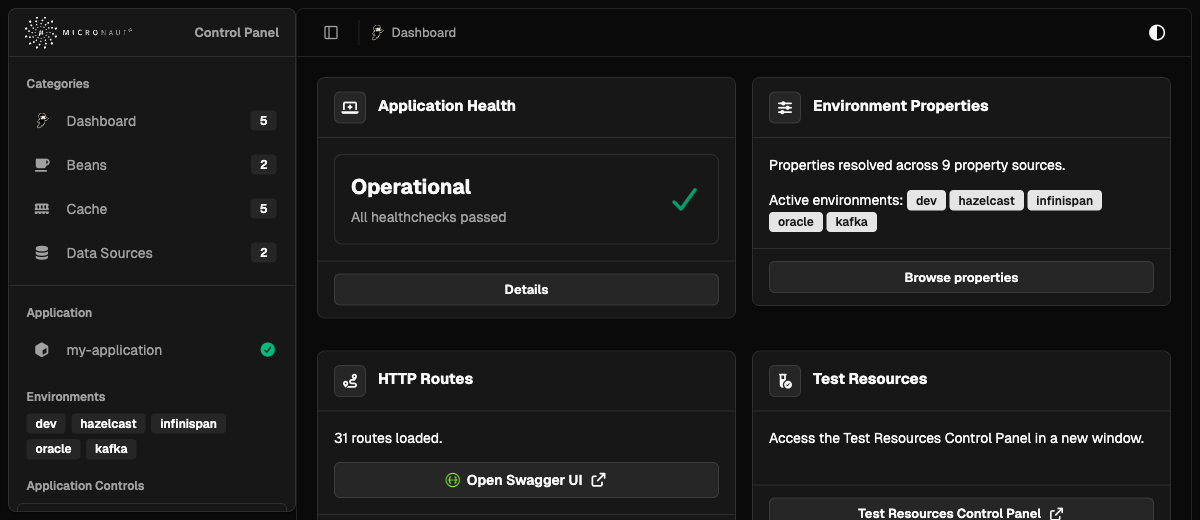
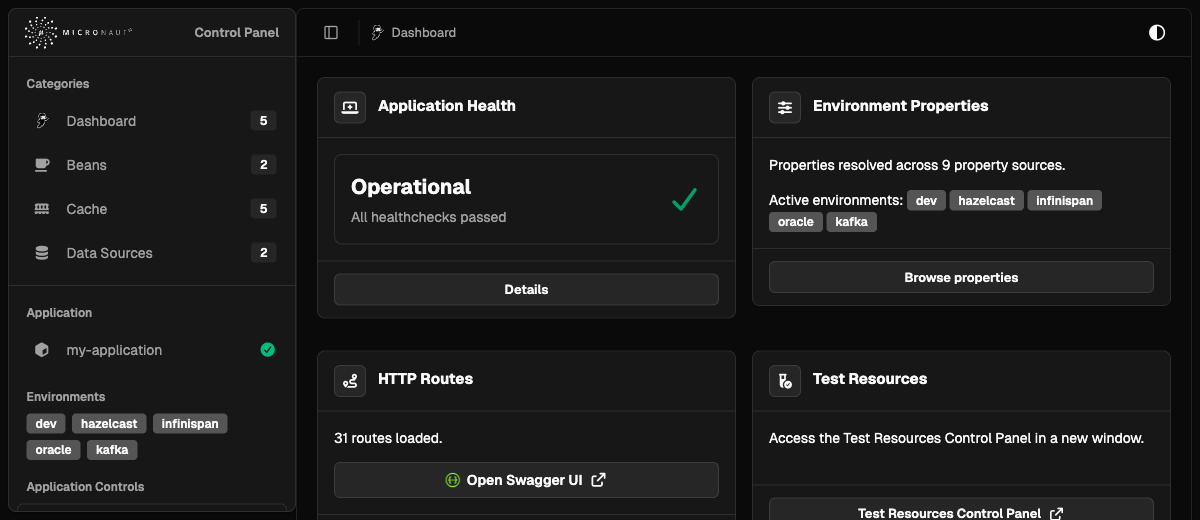
Correct layout

diff --git a/control-panel-ui/src/main/resources/static/css/dashboard.css b/control-panel-ui/src/main/resources/static/css/dashboard.css
@@ -493,18 +493,7 @@ html[data-sidebar="collapsed"] .cp-sidebar-actions .btn {
 
 .cp-environment-list {
     gap: 0.1rem;
-}
-
-.cp-sidebar-footer .cp-environments {
-    align-items: flex-start;
-    gap: 0.35rem;
-    padding: 0 0.6rem;
-}
-
-.cp-environment-tag {
-    max-width: 100%;
-    overflow: hidden;
-    text-overflow: ellipsis;
+    margin-inline: 0.6rem;
 }
 
 .cp-nav-static .cp-nav-icon {
@@ -1224,6 +1213,11 @@ dl.row dt {
     white-space: nowrap;
     background: var(--primary);
     color: var(--primary-foreground);
+}
+
+.badge.cp-environment-tag {
+    background: oklch(0.45 0 0);
+    color: oklch(0.985 0 0);
 }
 
 .badge-secondary {
